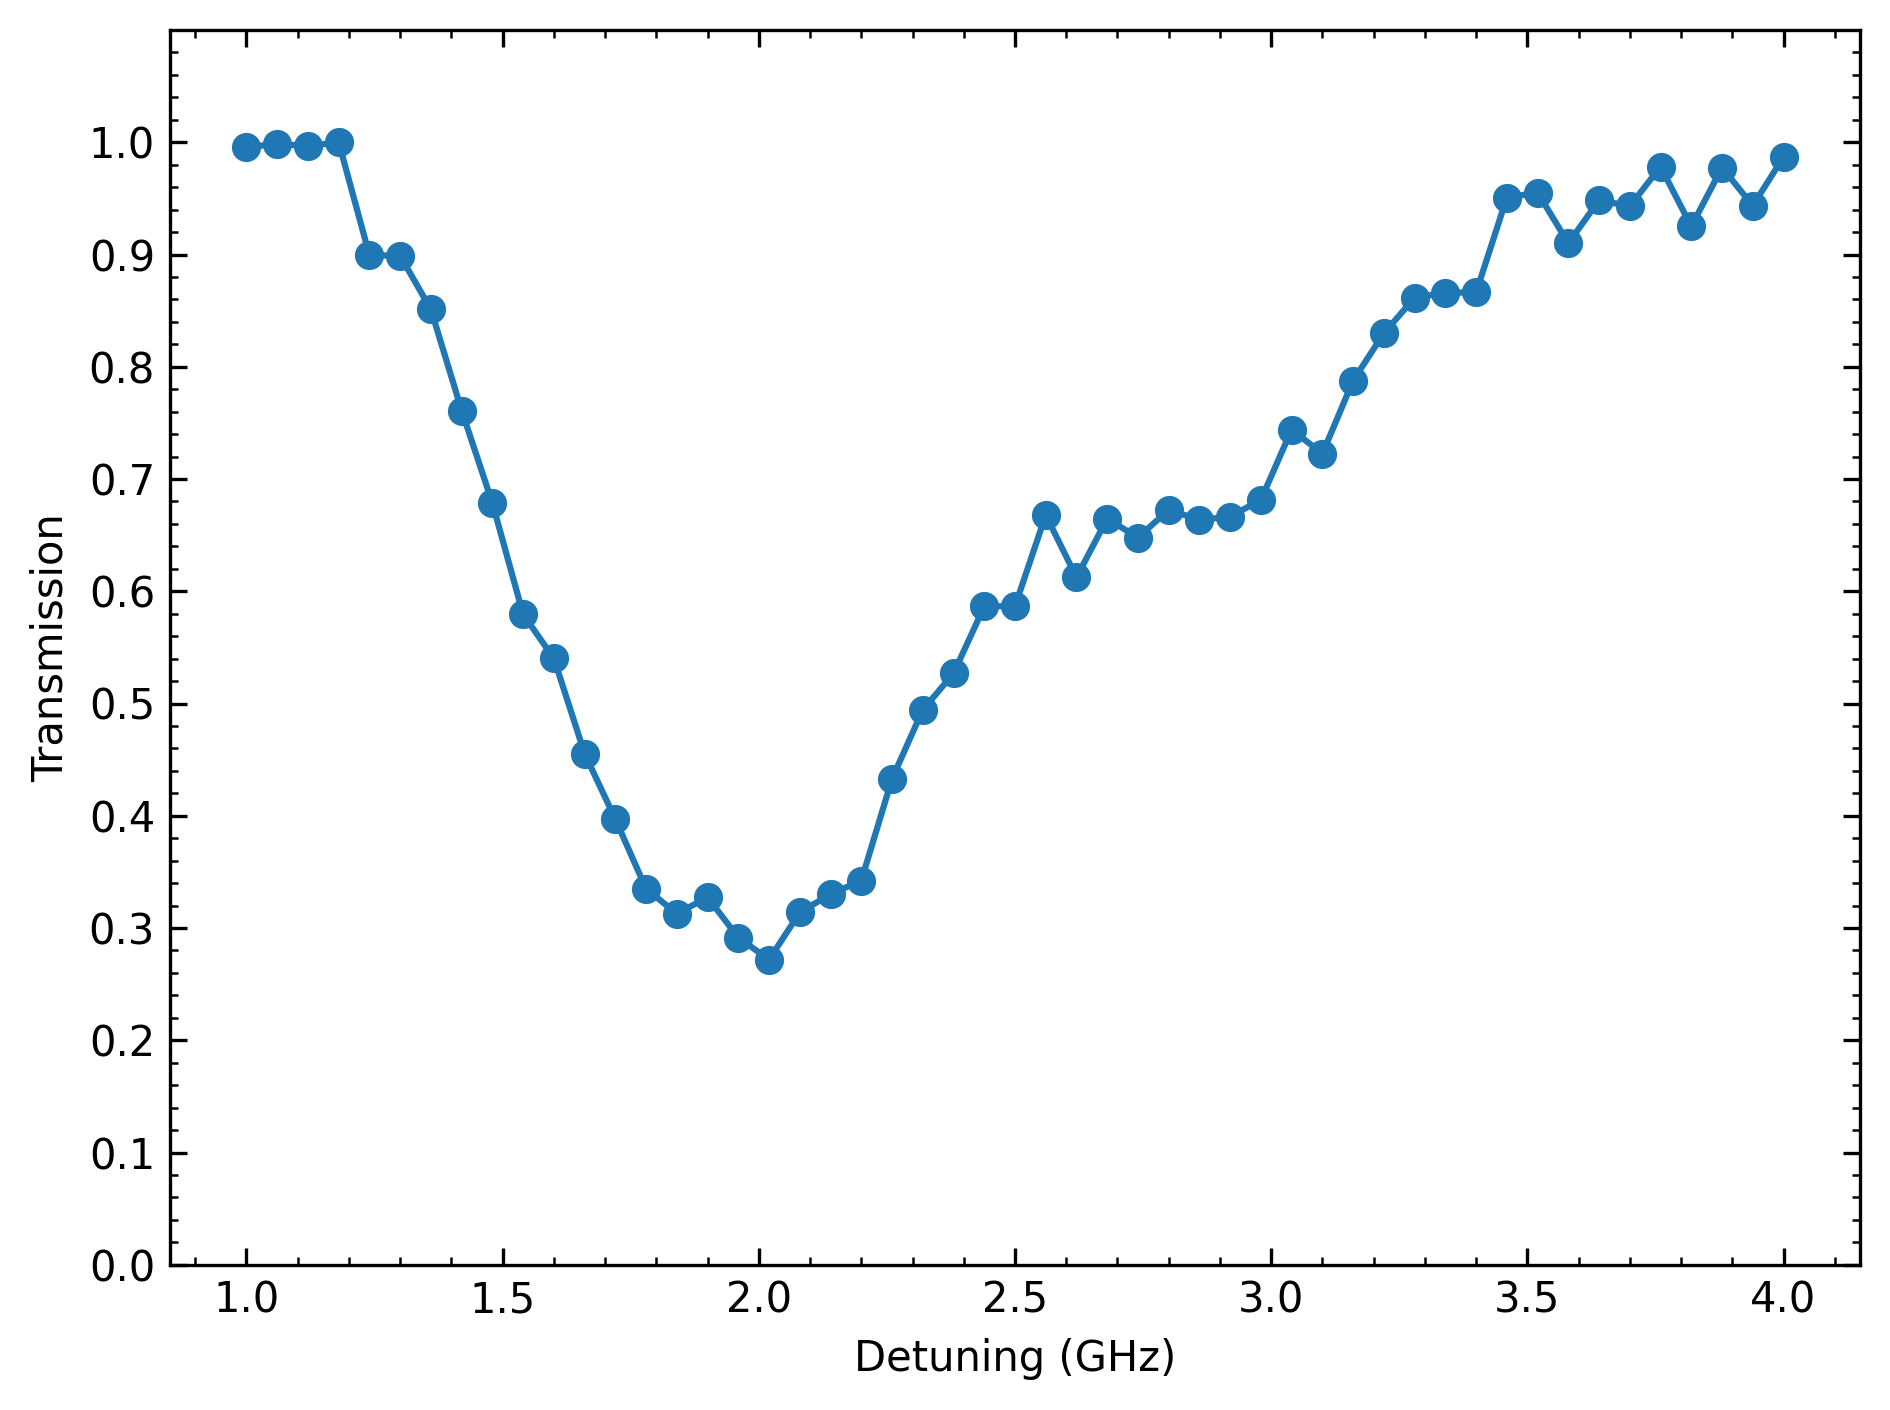
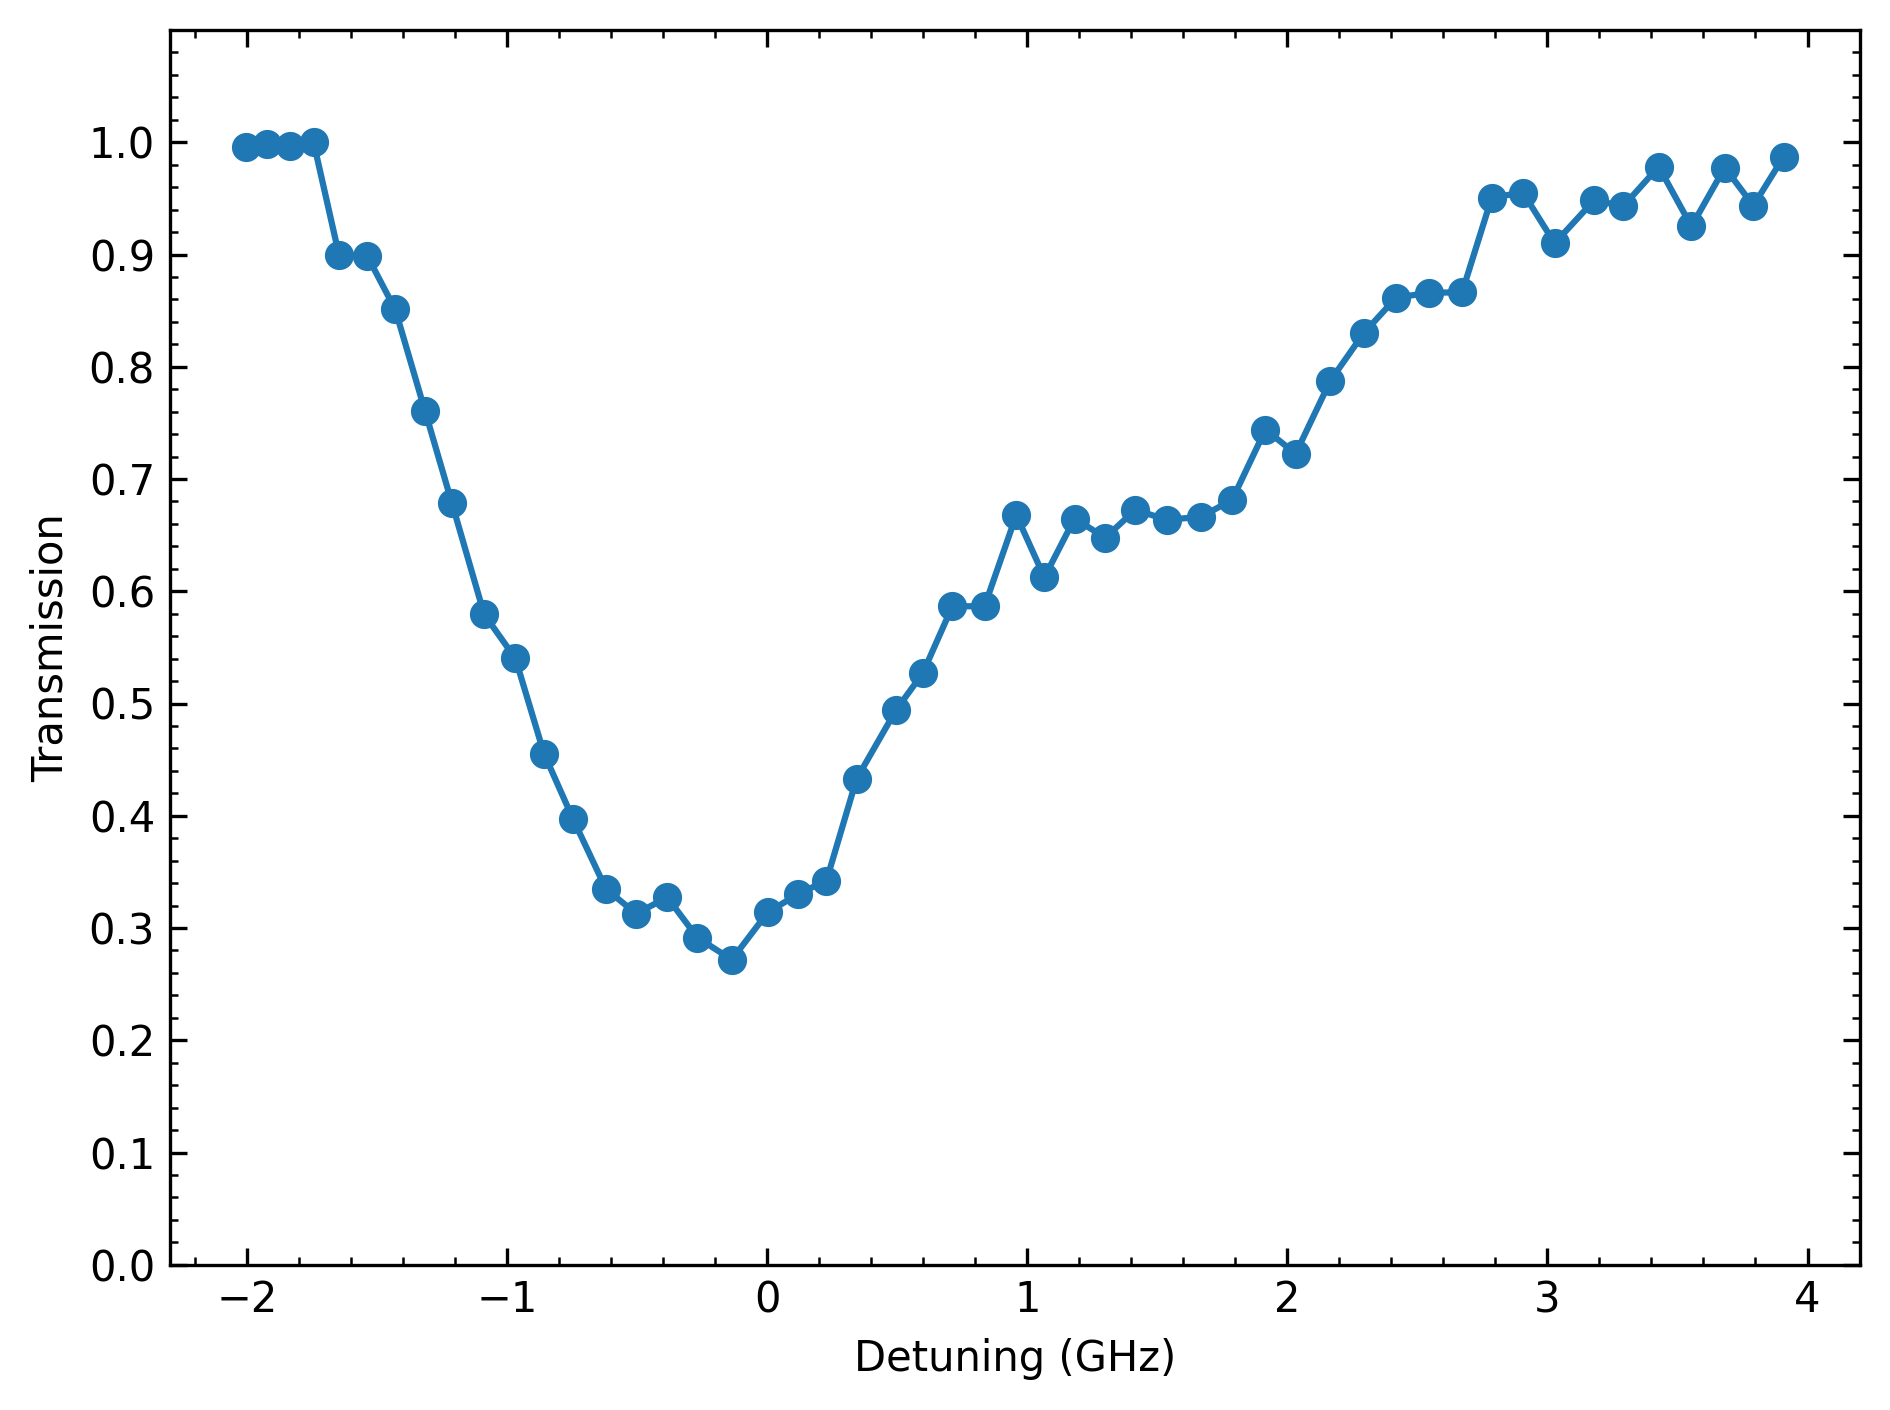
70

diff --git a/Photodiode_Data.py b/Photodiode_Data.py
@@ -18,7 +18,15 @@ rcParams['ytick.major.size'] = 4
 rcParams['xtick.minor.size'] = 2
 rcParams['ytick.minor.size'] = 2
 
-c = 3e8
+# ----------------------------------------------------
+# Configuration
+# ----------------------------------------------------
+os.chdir(r"C:\\Users\\Alienware\\OneDrive - Durham University\\Level_4_Project\\Lvl_4\\Repo")
+print("Now running in:", os.getcwd())
+
+c = 2.99792458e8
+
+"""
 
 frequencies = (456777.182,
 			   456777.031,
@@ -52,6 +60,74 @@ frequencies = (456777.182,
 			   456771.464,
 			   456771.252)
 
+frequencies2 = (456775.401,
+				456775.362,
+				456775.318,
+				456775.272,
+				456775.223,
+				456775.169,
+				456775.115,
+				456775.058,
+				456775.006,
+				456774.944,
+				456774.884,
+				456774.829,
+				456774.773,
+				456774.710,
+				456774.652,
+				456774.592,
+				456774.534,
+				456774.468,
+				456774.399,
+				456774.341,
+				456774.286,
+				456774.228,
+				456774.152,
+				456774.101,
+				456774.044,
+				456773.982,
+				456773.921,
+				456773.867,
+				456773.809,
+				456773.750,
+				456773.692,
+				456773.632,
+				456773.565,
+				456773.506,
+				456773.442,
+				456773.384,
+				456773.317,
+				456773.253,
+				456773.191,
+				456773.128,
+				456773.064,
+				456773.007,
+				456772.947,
+				456772.886,
+				456772.810,
+				456772.754,
+				456772.686,
+				456772.623,
+				456772.559,
+				456772.504,
+				456772.446)
+
+import pandas as pd
+
+df = pd.DataFrame({
+    "freq1": frequencies,
+})
+
+df.to_csv("frequencies1.csv", index=False)
+
+df = pd.DataFrame({
+    "freq2": frequencies2
+})
+
+df.to_csv("frequencies2.csv", index=False)
+
+"""
+
 # ----------------------------------------------------
 # Helper: Load Tektronix CSV (TIME, CH1, CH2)
 # ----------------------------------------------------
@@ -77,24 +153,21 @@ def load_tektronix_csv(filename):
 
 	return t, ch1, ch2
 
-
-# ----------------------------------------------------
-# Configuration
-# ----------------------------------------------------
-os.chdir(r"C:\\Users\\Alienware\\OneDrive - Durham University\\Level_4_Project\\Lvl_4\\Repo")
-print("Now running in:", os.getcwd())
-
 import glob
 
-folder = "SilverSpecFirst/"
-#folder = "SilverSpecSecond/"
+first = True
+
+if first:
+	folder = "SilverSpecFirst/"
+else:
+	folder = "SilverSpecSecond/"
 
 base_path = "Photodiode_Data/" + folder
 
 files = sorted(glob.glob(base_path + "tek*ALL.csv"))
 
 print("Found files:", len(files))
-print(files)
+#print(files)
 
 power = 1.2e-6  # 1.2 µW in W
 
@@ -146,8 +219,17 @@ background2_mean, background2_err = background2
 # ----------------------------------------------------
 # Convert to arrays and subtract background
 # ----------------------------------------------------
+
+import pandas as pd
+frequencies = pd.read_csv("frequencies1.csv")
+frequencies2 = pd.read_csv("frequencies2.csv")
+
 xs1 = np.linspace(1, 4, len(files)-1)
-xs = -np.array(frequencies)*2 + (c / (328.1625)) - 633
+
+if first:
+	xs = -np.array(frequencies)*2 + (c / (328.1625))# - 633
+else:
+	xs = -np.array(frequencies2)*2 + (c / (328.1625))# - 633
 
 y1 = np.abs(np.abs(averages1_means) - np.abs(background1_mean))
 y2 = np.abs(np.abs(averages2_means) - np.abs(background2_mean))
@@ -177,7 +259,11 @@ plt.errorbar(xs1, y2, yerr = y2_err, marker="o", label="CH2 data")
 plt.legend()
 plt.xlabel("Voltage (GHz)")
 plt.ylabel("Signal")
-plt.savefig("Photodiode_Plot", dpi=300, bbox_inches='tight')
+
+if first:
+	plt.savefig("Photodiode_Plot", dpi=300, bbox_inches='tight')
+else:
+	plt.savefig("Photodiode_Plot2", dpi=300, bbox_inches='tight')
 plt.show()
 
 # ----------------------------------------------------
@@ -189,6 +275,22 @@ transmission_err = np.abs(transmission) * np.sqrt(
     (y1_err / y1)**2 +
     (y2_err / y2)**2
 )
+
+######## save to csv
+
+if first:
+	df = pd.DataFrame({
+		"Transmission1": transmission,
+		"Transmission1err": transmission_err,
+	})
+	df.to_csv("transmission1.csv", index=False)
+else:
+	df = pd.DataFrame({
+		"Transmission2": transmission,
+		"Transmission2err": transmission_err,
+	})
+	df.to_csv("transmission2.csv", index=False)
+######## save to csv
 
 plt.errorbar(xs, transmission/np.max(transmission),
              yerr=np.abs(transmission_err/np.max(transmission)),
@@ -202,5 +304,9 @@ plt.yticks([0.0,0.1,0.2,0.3,0.4, 0.5, 0.6, 0.7 ,0.8,0.9, 1.0])
 
 plt.tight_layout()
 
-plt.savefig("Photodiode_Transmission", dpi=300, bbox_inches='tight')
+if first:
+
+	plt.savefig("Photodiode_Transmission", dpi=300, bbox_inches='tight')
+else:
+	plt.savefig("Photodiode_Transmission2", dpi=300, bbox_inches='tight')
 plt.show()

diff --git a/elecsus_silver.py b/elecsus_silver.py
@@ -196,6 +196,18 @@ plt.xlim([-8.5,8.5])
 plt.yticks([ 0.0, 0.1, 0.2, 0.3, 0.4, 0.5, 0.6, 0.7, 0.8, 0.9, 1.0])
 plt.xticks([ -8, -6, -4, -2, 0, 2, 4, 6, 8])
 
+##########################################
+#Add data to figure
+##########################################
+
+import pandas as pd
+frequencies = pd.read_csv("frequencies1.csv")
+frequencies2 = pd.read_csv("frequencies2.csv")
+transmissions1 = pd.read_csv("frequencies2.csv")
+
+
+
+
 plt.savefig(r"C:\Users\Alienware\OneDrive - Durham University\Level_4_Project\Lvl_4\Project\voigt_adjusted.png", dpi=600, bbox_inches='tight')
 
 #plt.legend()
